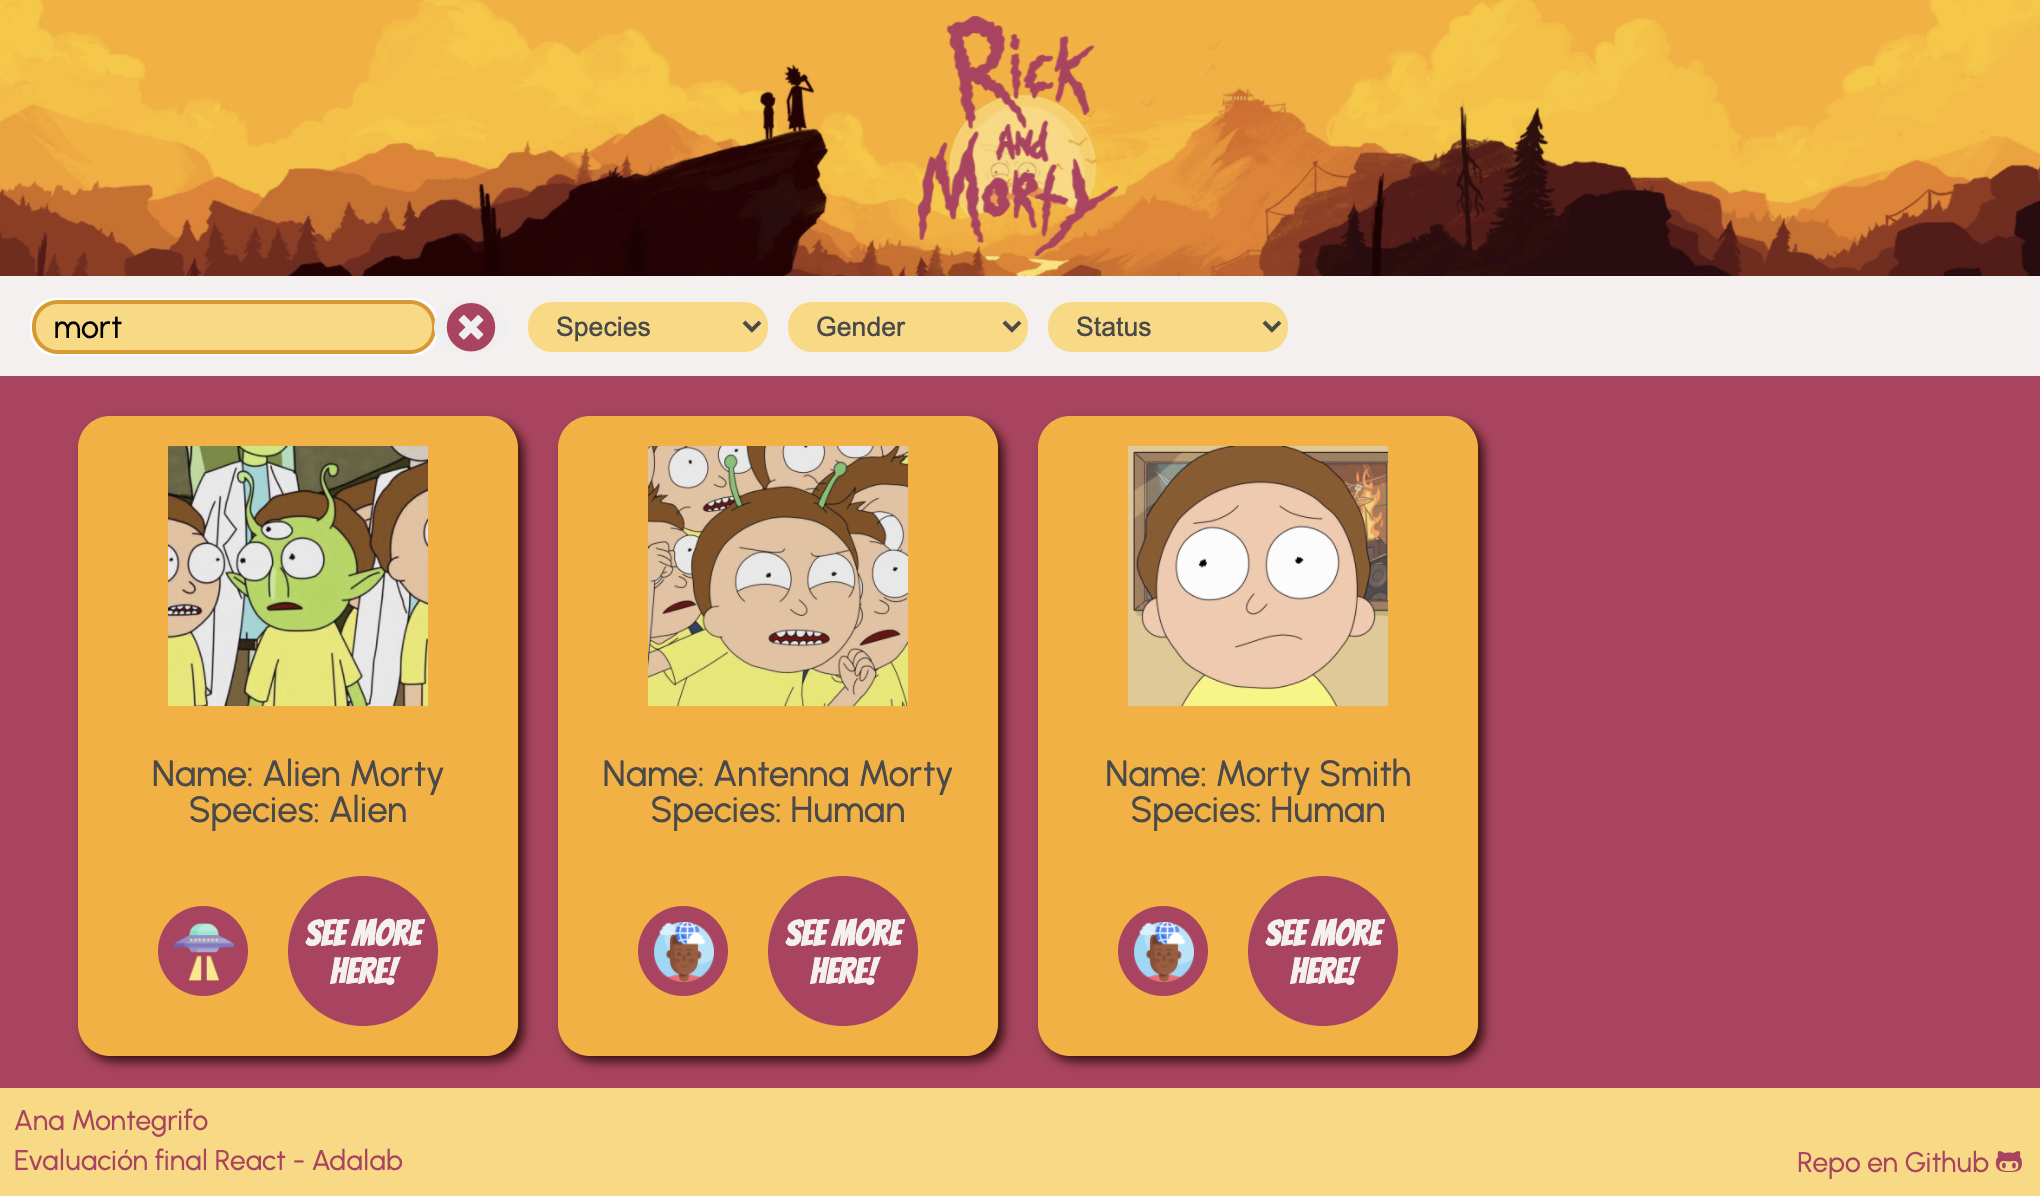
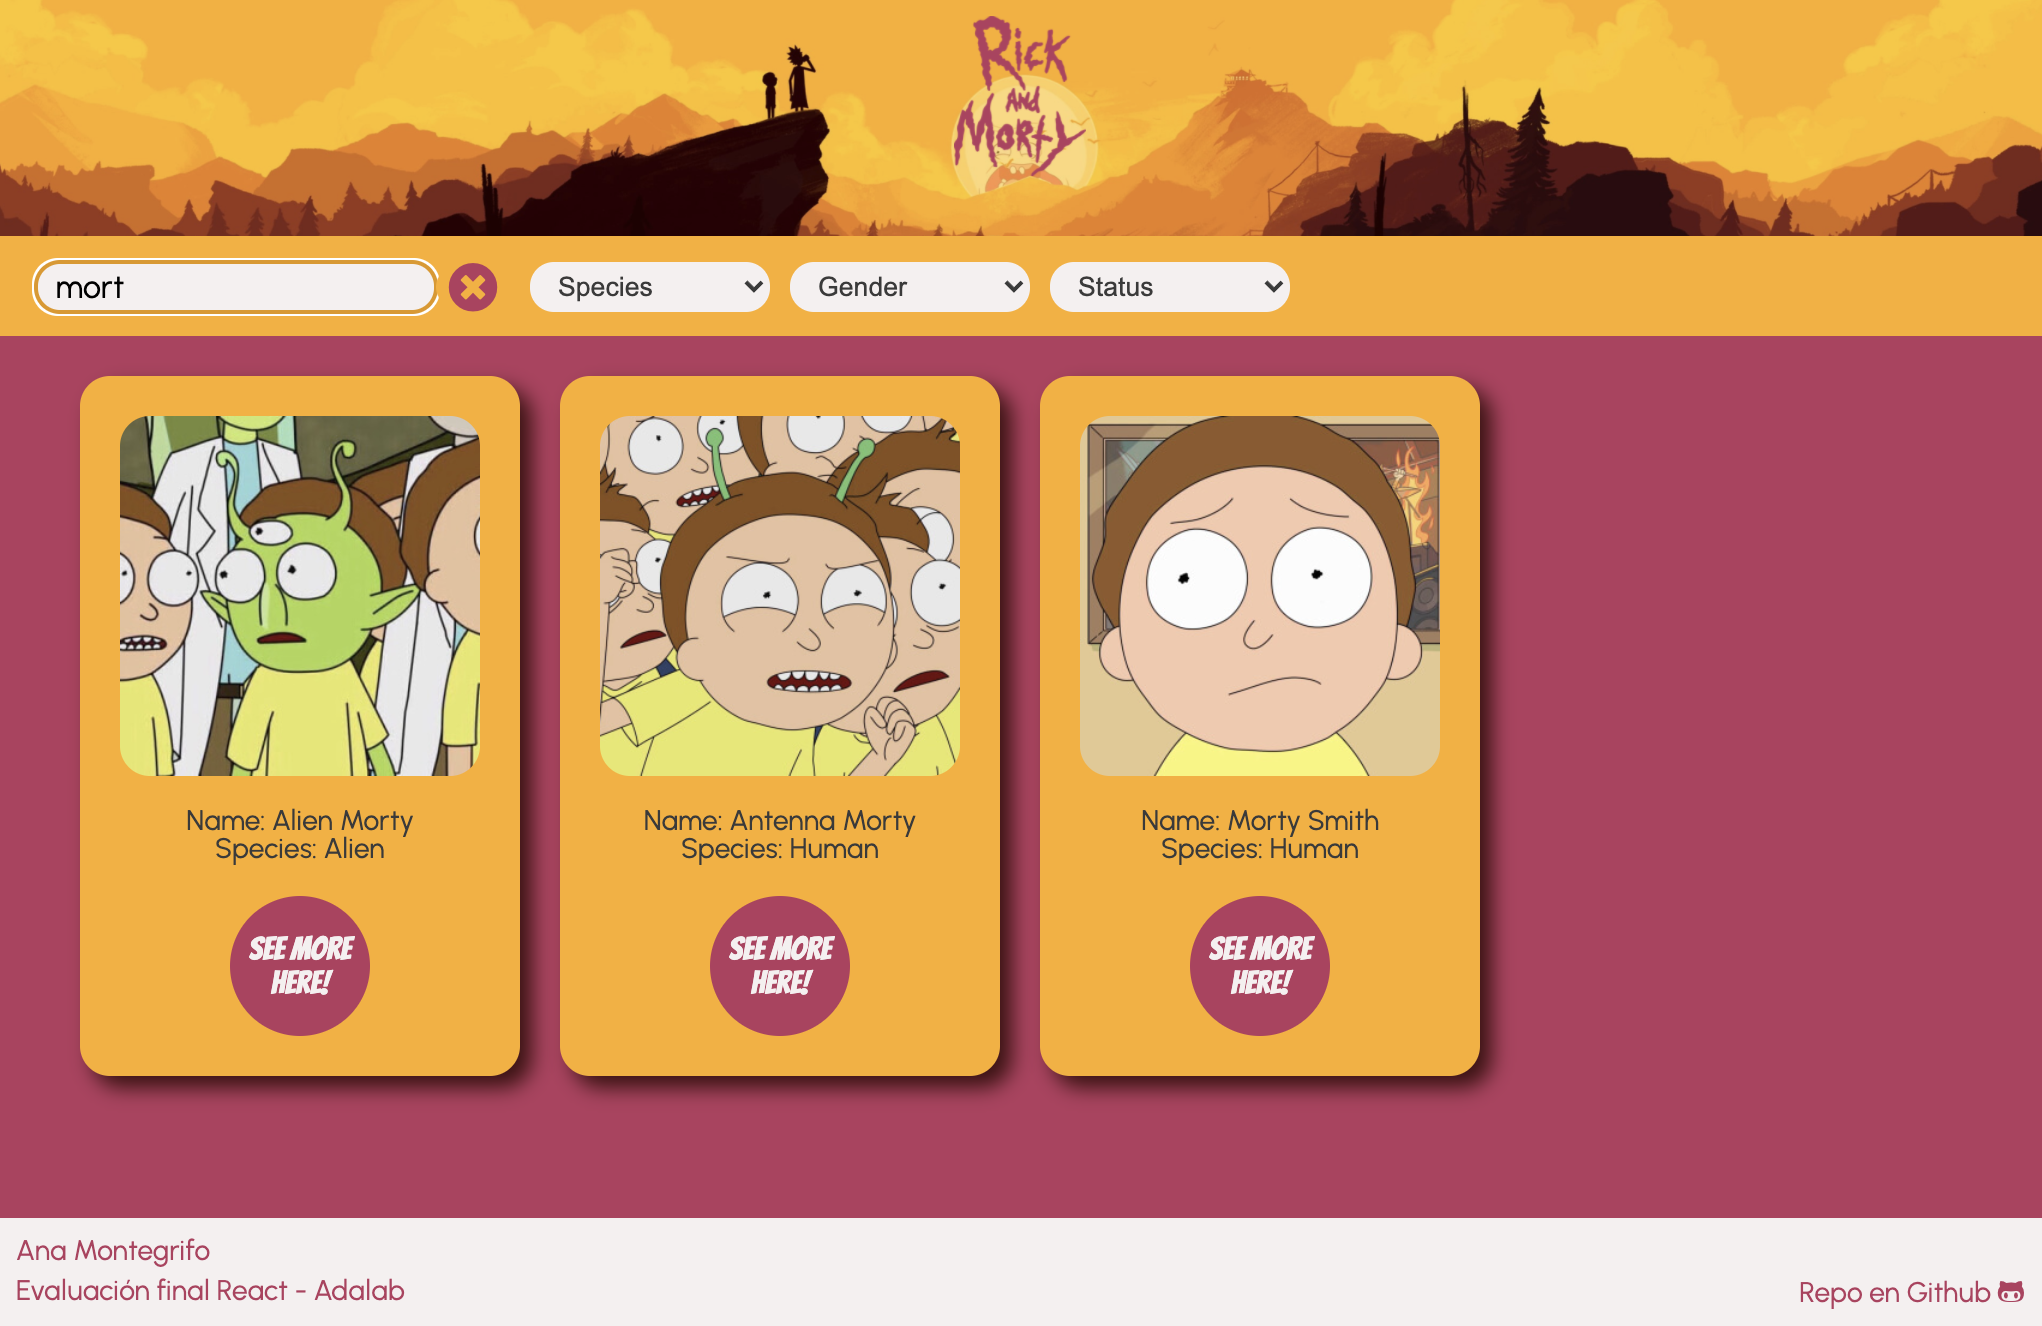
add new styles

diff --git a/src/components/CharacterDetail.js b/src/components/CharacterDetail.js
@@ -2,6 +2,13 @@ import PropTypes from 'prop-types';
 import '../styles/layout/CharacterDetail.scss';
 import NotFound from './NotFound';
 import CrossButton from './CrossButton';
+import Human from '../images/human-mind.png';
+import Alien from '../images/ufo.png';
+import Female from '../images/female.png';
+import Male from '../images/male.png';
+import Unknown from '../images/unknown.png';
+import Alive from '../images/alive.png';
+import Dead from '../images/dead.png';
 
 const CharacterDetail = (props) => {
 	if (props.selectedCharacter === undefined) {
@@ -16,13 +23,32 @@ const CharacterDetail = (props) => {
 		let episodes =
 			props.selectedCharacter.episode.length === 1 ? 'episode' : 'episodes';
 
-		let statusIcon = '';
-		if (props.selectedCharacter.status === 'Dead') {
-			statusIcon = 'fas fa-cross detail__icon';
-		} else if (props.selectedCharacter.status === 'Alive') {
-			statusIcon = 'fas fa-heart detail__icon';
+		let speciesIcon =
+			props.selectedCharacter.species === 'Alien' ? Alien : Human;
+
+		let genderIcon;
+		if (props.selectedCharacter.gender === 'Female') {
+			genderIcon = Female;
+		} else if (props.selectedCharacter.gender === 'Male') {
+			genderIcon = Male;
 		} else {
-			statusIcon = 'fas fa-question-circle detail__icon';
+			genderIcon = Unknown;
+		}
+		// let statusIcon = '';
+		// if (props.selectedCharacter.status === 'Dead') {
+		// 	statusIcon = 'fas fa-cross detail__icon';
+		// } else if (props.selectedCharacter.status === 'Alive') {
+		// 	statusIcon = 'fas fa-heart detail__icon';
+		// } else {
+		// 	statusIcon = 'fas fa-question-circle detail__icon';
+		// }
+		let statusIcon;
+		if (props.selectedCharacter.status === 'Alive') {
+			statusIcon = Alive;
+		} else if (props.selectedCharacter.status === 'Dead') {
+			statusIcon = Dead;
+		} else {
+			statusIcon = Unknown;
 		}
 
 		return (
@@ -43,12 +69,35 @@ const CharacterDetail = (props) => {
 						of Rick & Morty.
 					</p>
 
-					<div className="detail__icon--container">
+					<section className="detail__circles">
+						<div className="detail__select">
+							<img
+								className="detail__select--icon"
+								src={speciesIcon}
+								alt="species"
+							/>
+						</div>
+						<div className="detail__select">
+							<img
+								className="detail__select--icon"
+								src={genderIcon}
+								alt="gender"
+							/>
+						</div>
+						<div className="detail__select">
+							<img
+								className="detail__select--icon"
+								src={statusIcon}
+								alt="gender"
+							/>
+						</div>
+					</section>
+					{/* <div className="detail__icon--container">
 						<p>
 							<i className={statusIcon}></i>
 						</p>
 						<p className="detail__text">{`Status: ${props.selectedCharacter.status}`}</p>
-					</div>
+					</div> */}
 				</div>
 			</section>
 		);

diff --git a/src/components/CharacterCard.js b/src/components/CharacterCard.js
@@ -2,49 +2,12 @@ import '../styles/layout/CharacterCard.scss';
 import { Link } from 'react-router-dom';
 import PropTypes from 'prop-types';
 import RoundButton from './RoundButton';
-import Human from '../images/human-mind.png';
-import Alien from '../images/ufo.png';
-import Female from '../images/female.png';
-import Male from '../images/male.png';
-import Unknown from '../images/unknown.png';
-import Alive from '../images/alive.png';
-import Dead from '../images/dead.png';
 
 const CharacterCard = (props) => {
-	let speciesIcon = props.each.species === 'Alien' ? Alien : Human;
-
-	let genderIcon;
-	if (props.each.gender === 'Female') {
-		genderIcon = Female;
-	} else if (props.each.gender === 'Male') {
-		genderIcon = Male;
-	} else {
-		genderIcon = Unknown;
-	}
-
-	let statusIcon;
-	if (props.each.status === 'Alive') {
-		statusIcon = Alive;
-	} else if (props.each.status === 'Dead') {
-		statusIcon = Dead;
-	} else {
-		statusIcon = Unknown;
-	}
-
 	return (
 		<div className="card">
 			<img className="card__image" src={props.each.image} alt="character" />
-			<section className="card__circles">
-				<div className="card__select">
-					<img className="card__select--icon" src={speciesIcon} alt="species" />
-				</div>
-				<div className="card__select">
-					<img className="card__select--icon" src={genderIcon} alt="gender" />
-				</div>
-				<div className="card__select">
-					<img className="card__select--icon" src={statusIcon} alt="gender" />
-				</div>
-			</section>
+
 			<div className="card__paragraphs">
 				<p className="card__text">{`Name: ${props.each.name}`}</p>
 				<p className="card__text">{`Species: ${props.each.species}`}</p>

diff --git a/src/styles/layout/CharacterDetail.scss b/src/styles/layout/CharacterDetail.scss
@@ -13,10 +13,10 @@
 		align-items: center;
 		justify-content: space-between;
 		width: 280px;
-		height: 340px;
+		height: 380px;
 		padding: 20px;
 		border-radius: 1em;
-		background-color: $grey;
+		background-color: $s;
 		box-shadow: 6px 6px 10px $blood;
 		@include tablet {
 			display: grid;
@@ -44,17 +44,17 @@
 		@include tablet {
 			position: relative;
 			justify-self: right;
-			grid-column: 2;
-			grid-row: 1;
+			grid-column: 2/3;
+			grid-row: 1/2;
 			align-self: flex-end;
 		}
 	}
 	&__image {
-		width: 140px;
+		width: 160px;
 		@include tablet {
 			width: 300px;
 			align-self: flex-end;
-			grid-column: 1;
+			grid-column: 1/2;
 			grid-row: 1/4;
 		}
 	}
@@ -62,8 +62,36 @@
 		color: $darkGrey;
 		@include tablet {
 			font-size: 18px;
-			grid-column: 2;
-			grid-row: 2;
+			grid-column: 2/3;
+			grid-row: 2/3;
+		}
+	}
+	&__circles {
+		display: flex;
+		justify-content: center;
+		align-items: flex-end;
+		gap: 5px;
+		@include tablet {
+			grid-column: 2/3;
+			grid-row: 3/4;
+		}
+	}
+	&__select {
+		display: flex;
+		justify-content: center;
+		align-items: center;
+		border: none;
+		border-radius: 50%;
+		height: 45px;
+		width: 45px;
+		background-color: $grey;
+		border: 4px solid $orange;
+		&--icon {
+			height: 65%;
+		}
+		@include tablet {
+			height: 55px;
+		width: 55px;
 		}
 	}
 	&__icon {

diff --git a/src/styles/layout/CharacterCard.scss b/src/styles/layout/CharacterCard.scss
@@ -7,53 +7,30 @@
 	align-items: center;
 	justify-content: space-between;
 	text-align: center;
-	width: 210px;
-	height: 340px;
-	padding: 15px;
+	width: 220px;
+	height: 350px;
+	padding: 20px;
 	border-radius: 15px;
-	background-color: $yellow;
+	background-color: $orange;
 	box-shadow: 6px 6px 10px $blood;
 	&__image {
-		width: 170px;
-		margin-bottom: 15px;
-		border-radius: 10px;
-		// border: 3px solid $orange;
+		width: 180px;
+		align-self: flex-end;
+		border-radius: 15px;
 	}
 	&__text {
 		color: $darkGrey;
 		font-size: 14px;
-	}
-	&__circles {
-		position: absolute;
-		margin-top: 150px;
-		display: flex;
-		justify-content: center;
-		align-items: flex-end;
-		gap: 5px;
-	}
-	&__select {
-		display: flex;
-		justify-content: center;
-		align-items: center;
-		border: none;
-		border-radius: 50%;
-		height: 45px;
-		width: 45px;
-		background-color: $orange;
-		border: 4px solid $yellow;
-		&--icon {
-			height: 65%;
-		}
 	}
 	&__button {
 		border: none;
 		border-radius: 50%;
 		height: 70px;
 		width: 70px;
-		background-color: $orange;
+		background-color: $wine;
 		font-family: $special;
 		font-size: 16px;
-		color: $wine;
+		color: $grey;
 		&:hover {
 			transform: translateY(-2px);
 			box-shadow: 0 10px 20px rgba(0, 0, 0, 0.3);
